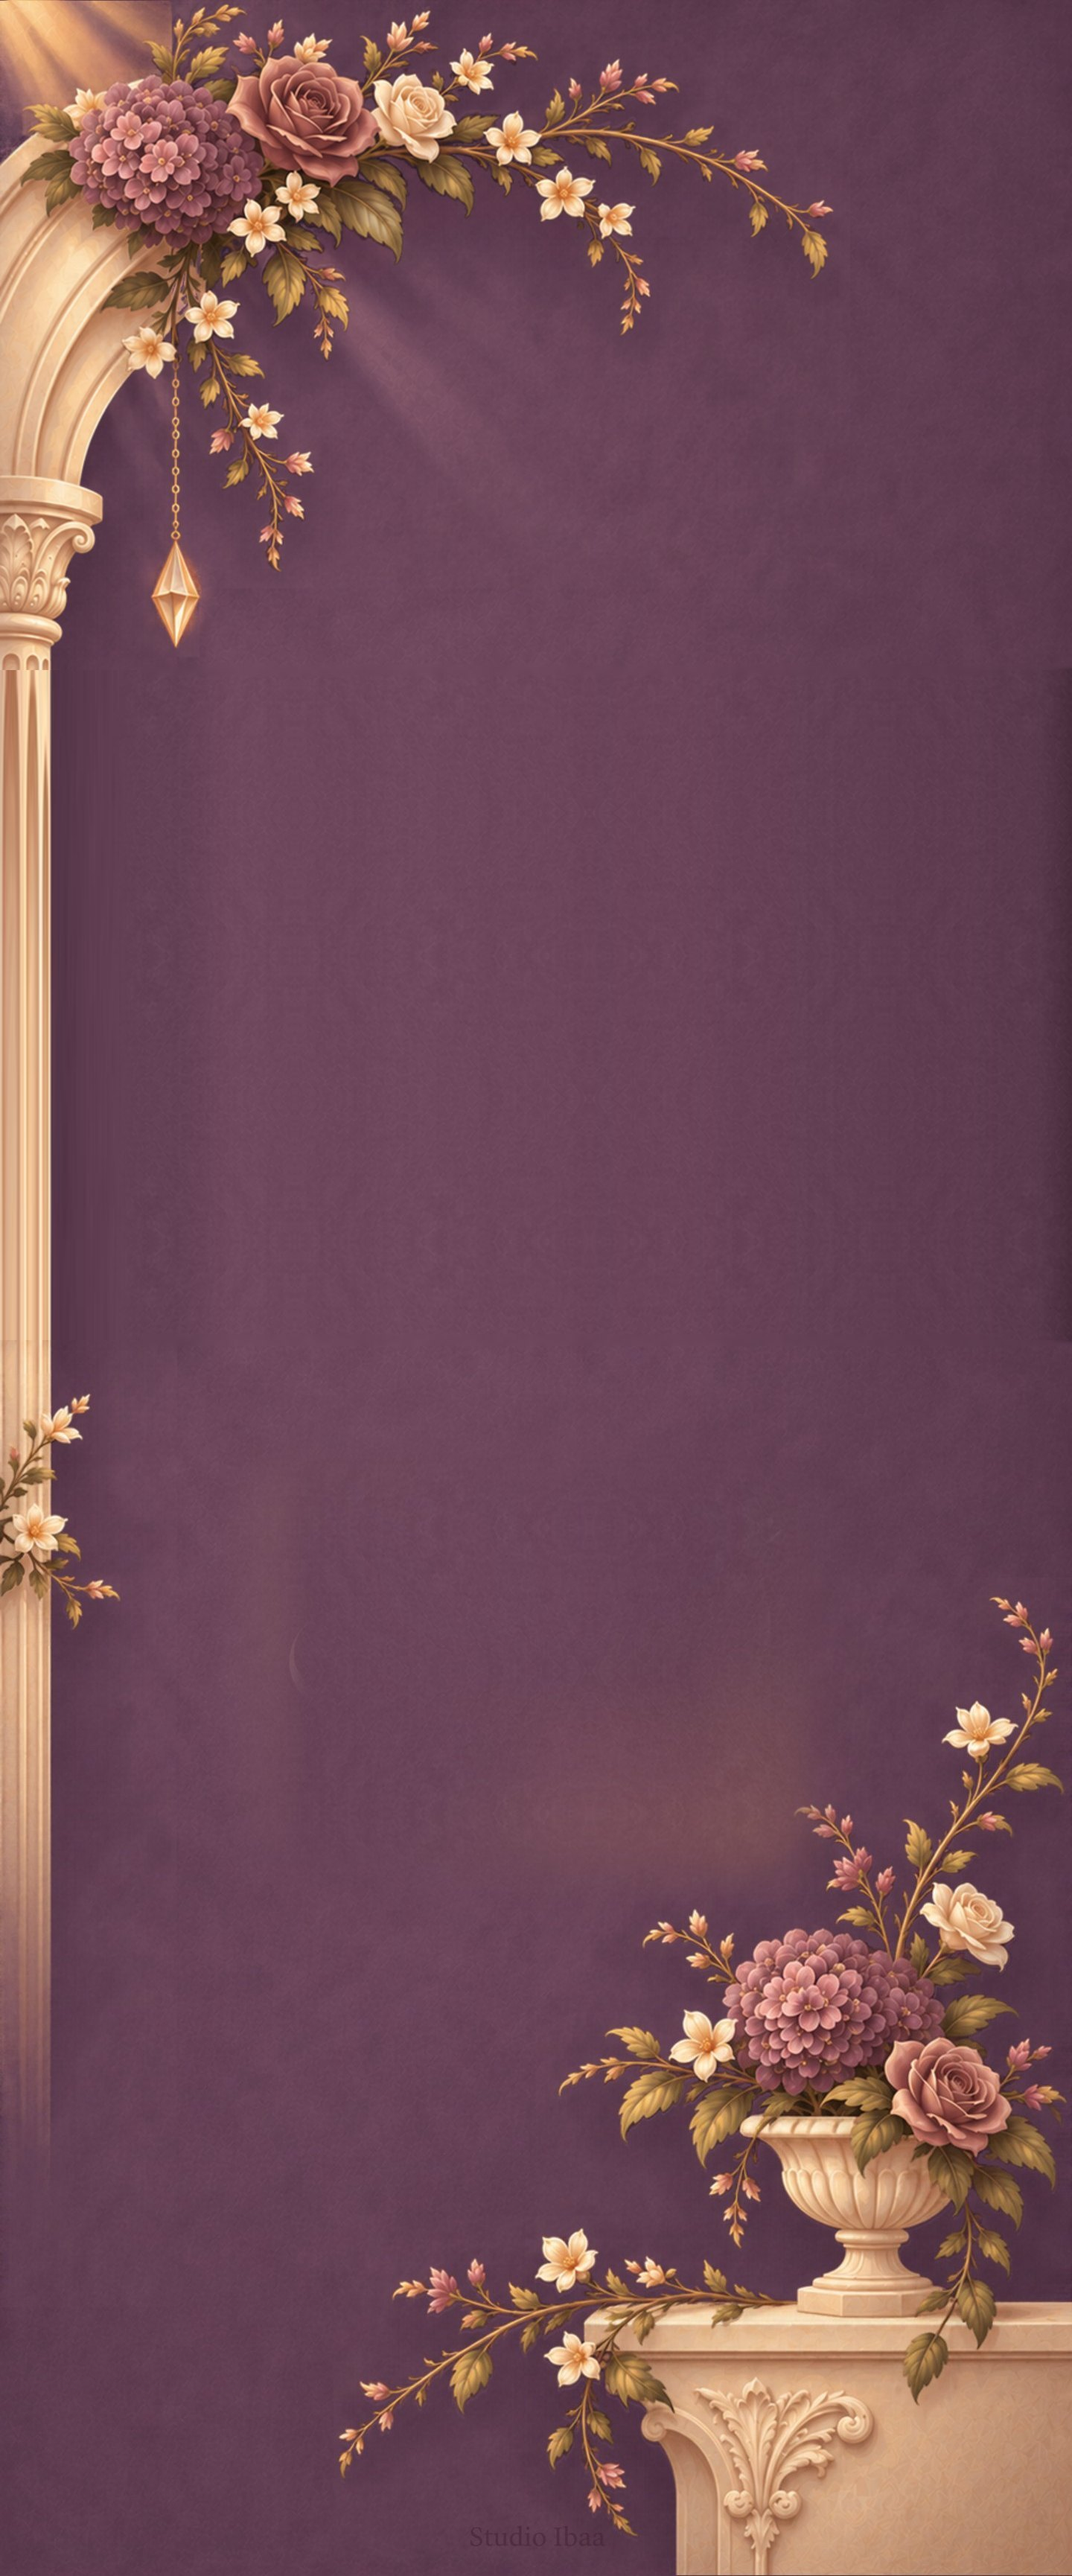
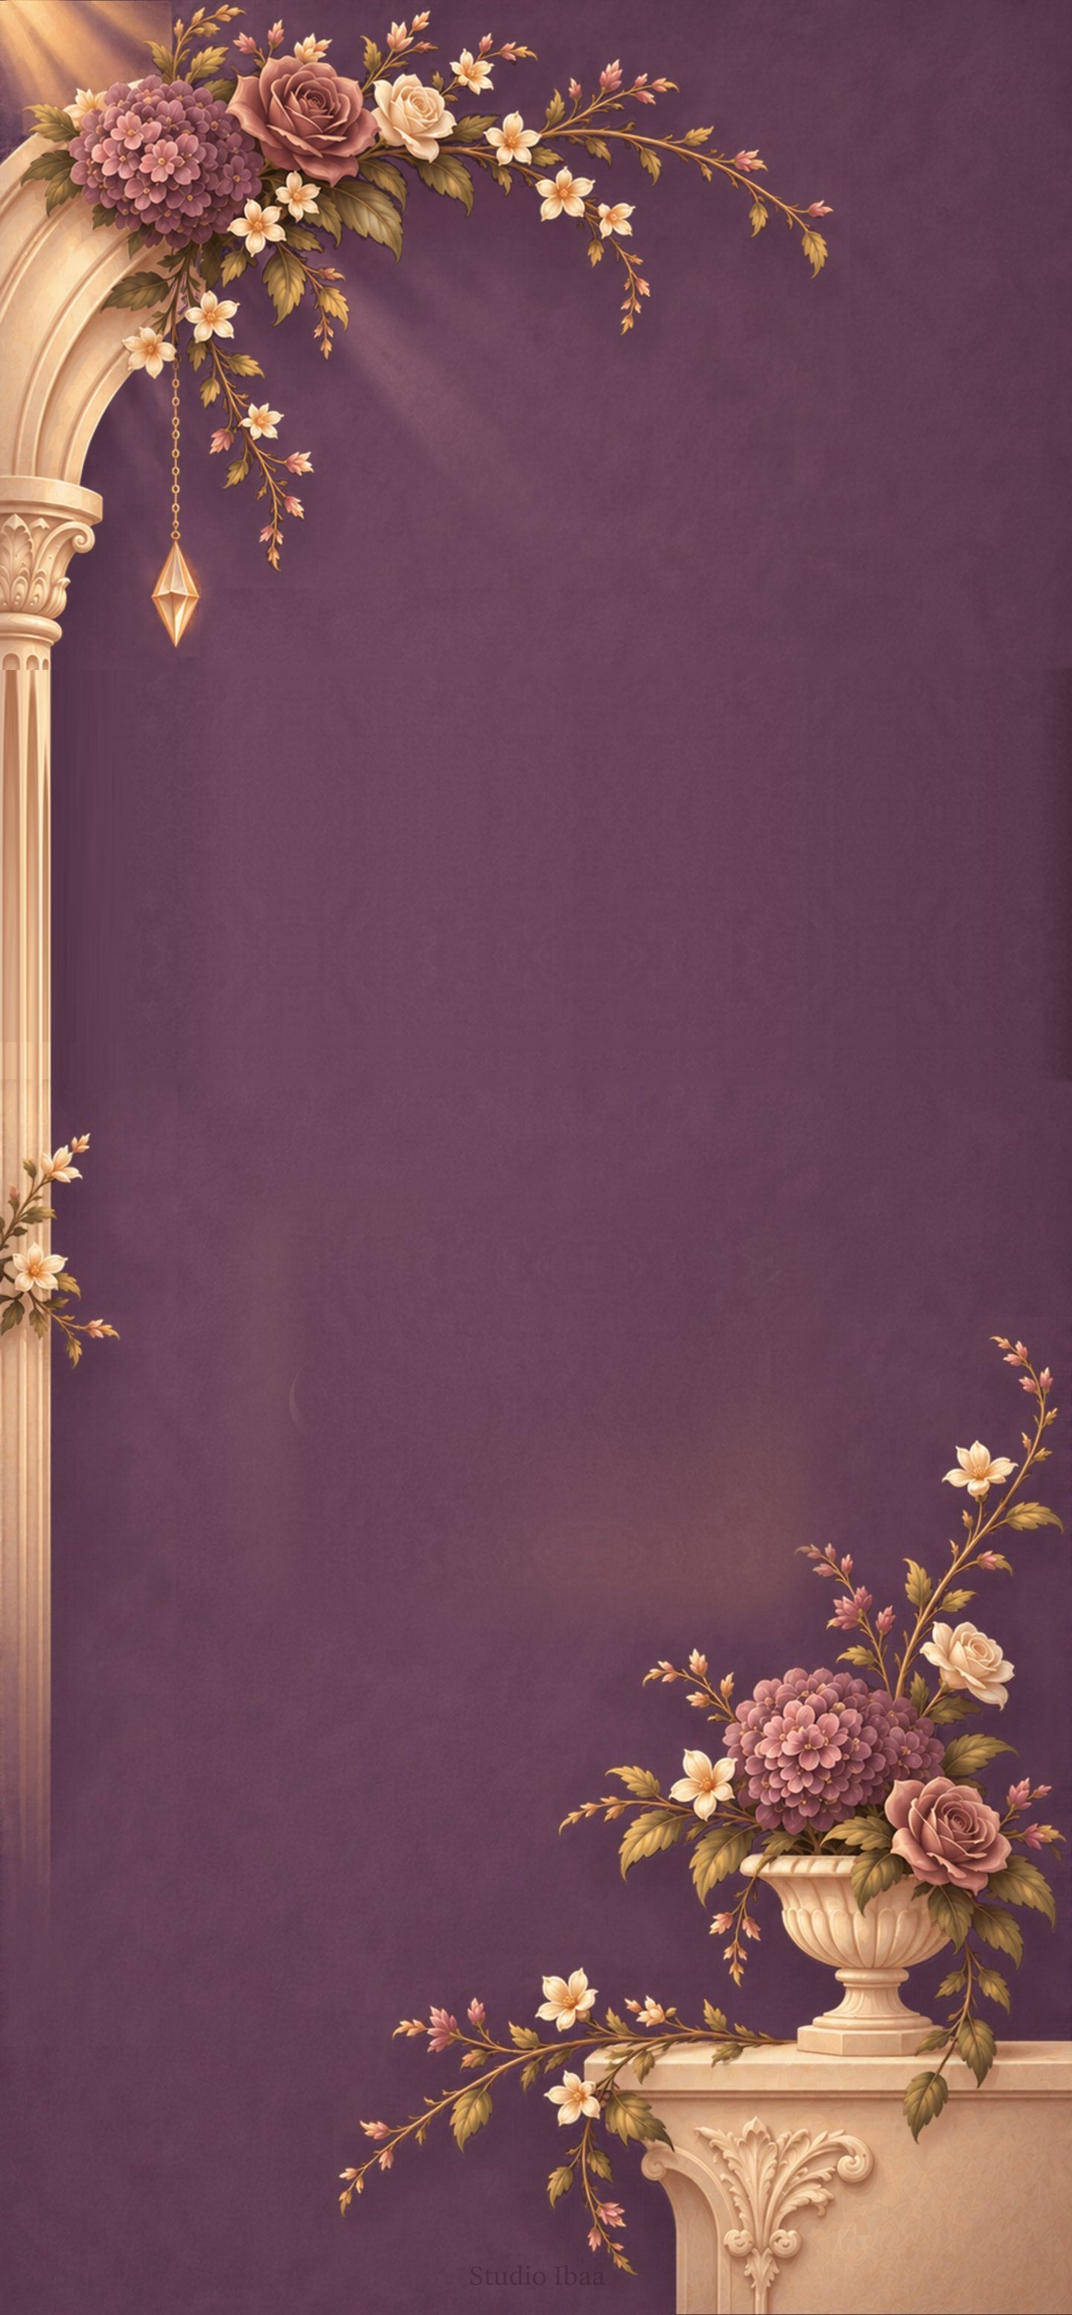
v3: raise vase on page two
Claude-Session: https://claude.ai/code/session_01JdVKD3ep3CEBkrahYhAXDQ

diff --git a/v3/index.html b/v3/index.html
@@ -180,13 +180,13 @@
   /* RSVP inside the arch frame */
   .rsvp-wrap { container-type: inline-size; margin-top: 0; position: relative; }
   .rsvp-frame {
-    position: relative; aspect-ratio: 1440 / 3460; text-align: right; color: #f6eadb;
+    position: relative; aspect-ratio: 1440 / 3110; text-align: right; color: #f6eadb;
     background: #5e3c50 url("../assets/frame-full-hd.jpg") center / 100% 100% no-repeat;
     overflow: hidden;
   }
   .rsvp-frame { -webkit-mask-image: linear-gradient(to bottom, transparent 0, #000 6%, #000 95%, transparent 100%); mask-image: linear-gradient(to bottom, transparent 0, #000 6%, #000 95%, transparent 100%); }
   .design { -webkit-mask-image: linear-gradient(to bottom, transparent 0, #000 5%, #000 97%, transparent 100%); mask-image: linear-gradient(to bottom, transparent 0, #000 5%, #000 97%, transparent 100%); }
-  .rsvp-frame .frame-inner { position: absolute; top: 24%; bottom: 38%; left: 18%; right: 18%;
+  .rsvp-frame .frame-inner { position: absolute; top: 25%; bottom: 33.5%; left: 18%; right: 18%;
     display: flex; flex-direction: column; justify-content: center; }
   .rsvp-frame #formView[hidden] { display: none; }
   .rsvp-frame .done.show { display: flex; flex-direction: column; justify-content: center; }
